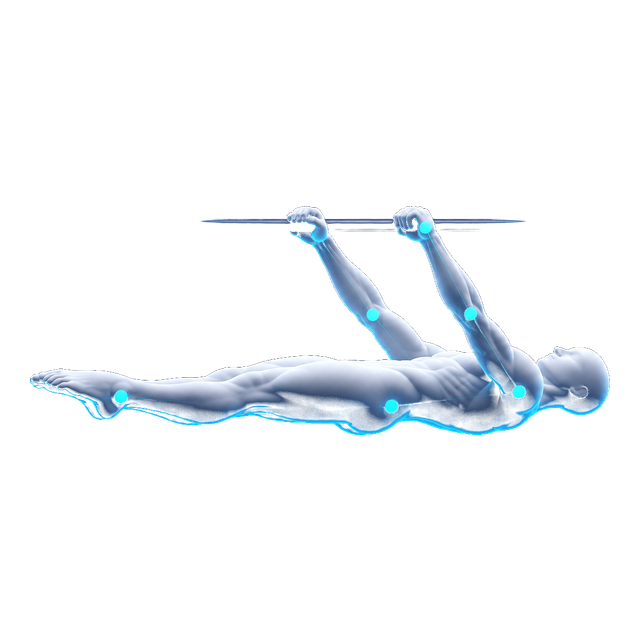
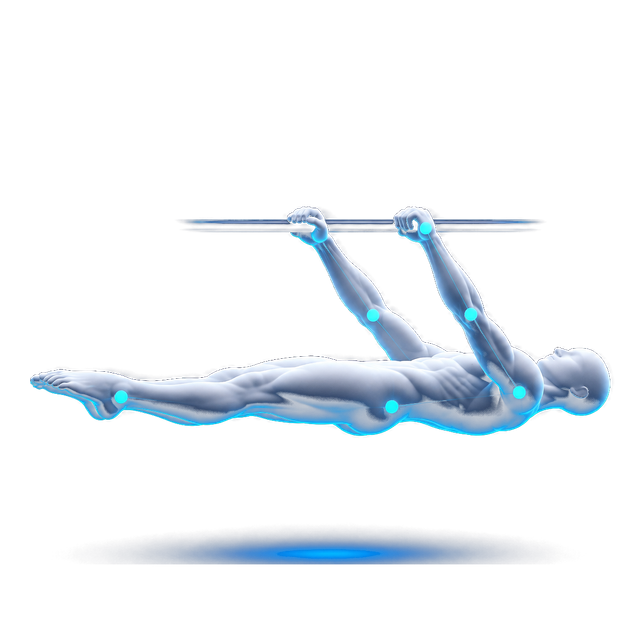
Conserve le reflet au sol des illustrations, en halo et non en tache
Le reflet fait partie du style et n est plus supprime. Il ne peut pas pour
autant etre traite comme le corps : opacifie comme lui, il devenait une tache
bleu nuit plus sombre que la carte ardoise qu il est cense eclairer. Son
opacite suit donc son intensite, ce qui l eclaircit sur un fond sombre.

Le cadrage se calcule desormais sur le corps seul. Cadrer sur l image entiere
faisait varier l echelle du personnage selon que son reflet touche ses appuis
ou flotte loin en dessous : le front lever sortait 40 pour cent plus petit
que la planche dans la meme grille.

Changed region(s): [[0.1875, 0.8125, 0.8125, 0.9062], [0.0312, 0.5625, 0.9375, 0.6875], [0.2812, 0.3125, 0.8438, 0.4062]]

diff --git a/CLAUDE.md b/CLAUDE.md
@@ -164,21 +164,32 @@ quoi la 4K sortait plus compressée que la 1080p.
 déposer.** Les visuels arrivent sur fond noir alors que l'application les
 affiche en `object-contain` sur une carte ardoise avec un halo cyan quand la
 figure est sélectionnée : un fond opaque produirait un rectangle noir et un
-halo carré. `scripts/import-figure-image.mjs` détoure le sujet, retire le
-décor et normalise au format des images en place (640x640 RGBA, sujet sur
-580 px, centré). Toute nouvelle illustration doit passer par lui plutôt que
-d'être copiée à la main.
+halo carré. `scripts/import-figure-image.mjs` détoure, normalise au format
+des images en place (640x640 RGBA, corps sur 580 px, centré) et doit être
+utilisé pour toute nouvelle illustration plutôt qu'une copie à la main.
 
-Le détourage combine trois critères, chacun ajouté parce qu'une illustration
-mettait le précédent en défaut : la luminance sépare le sujet du fond, un
-découpage en bandes écarte un reflet au sol détaché du corps, et une porte
-sur le canal rouge écarte celui qui touche les mains, le décor étant d'un
-bleu sans rouge là où le corps monte au dessus de 120. Cette dernière porte
-creusait les points d'articulation, eux aussi cyan, d'où une exception pour
-les pixels très lumineux. Il reste un chevauchement irréductible entre le
-cœur du reflet au sol et les points les plus ternes, qui laisse un fin trait
-sous les mains : invisible à la taille d'affichage, il se lit comme une
-ombre.
+Deux partis pris s'y trouvent, tous deux demandés explicitement. Le reflet au
+sol est **conservé**, il fait partie du style. Mais il n'est pas traité comme
+le corps : un halo est une lumière, il doit éclaircir le fond, et opacifié
+comme le reste il devenait une tache bleu nuit plus sombre que la carte
+qu'il était censé illuminer. Son opacité est donc proportionnelle à son
+intensité, seule approximation d'un rendu additif possible dans un PNG. Le
+corps, lui, reste franchement opaque, sinon ses zones d'ombre laisseraient
+passer le fond.
+
+Le cadrage se calcule sur le corps seul, décor exclu. Cadrer sur l'image
+entière faisait varier l'échelle du personnage d'une figure à l'autre selon
+que son reflet touche ses appuis ou flotte loin en dessous : le front lever
+sortait 40 % plus petit que la planche dans la même grille. Le décor proche
+est conservé dans la marge, le décor lointain coupé à une distance où il ne
+reste que du fond, donc sans bord visible.
+
+La séparation corps / décor repose sur le canal rouge, nul dans le décor et
+supérieur à 120 sur le corps. Deux exceptions à connaître avant d'y toucher :
+les points d'articulation sont eux aussi d'un cyan sans rouge et se
+creusaient en trous noirs, ils sont rattrapés par leur intensité ; et le
+cœur d'un reflet est assez lumineux pour passer pour du corps, ce qui
+interdit d'utiliser ce rattrapage dans le calcul du cadrage.
 
 **Rôle admin en base, pas en dur.** Le drapeau `is_admin` vit sur
 `profiles`, ce qui évite de coder une adresse e-mail dans le dépôt et
